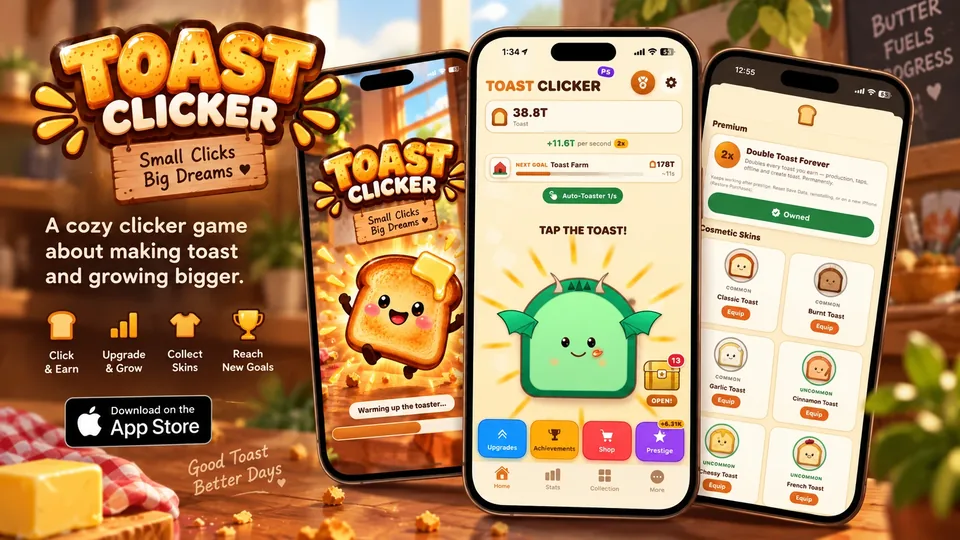
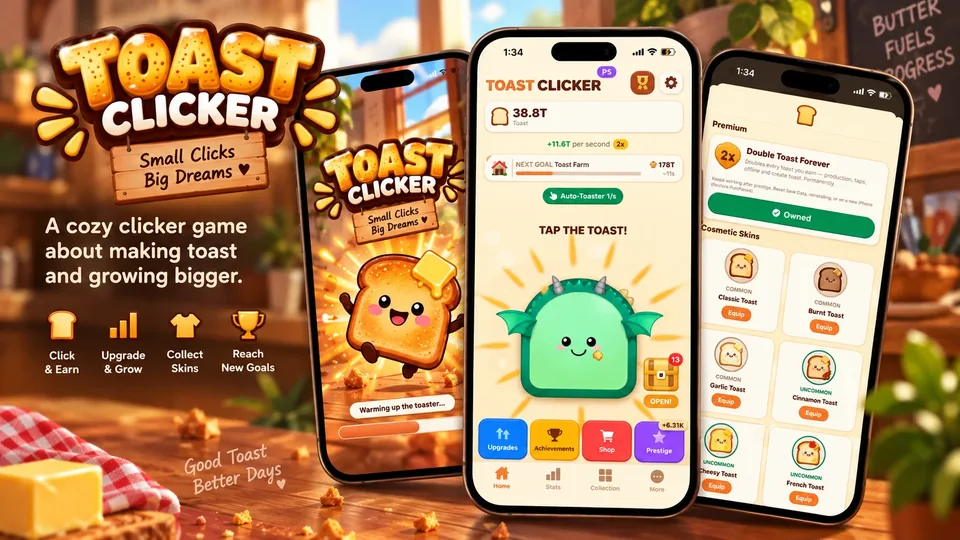
Use showcase artwork without the App Store badge

diff --git a/index.html b/index.html
@@ -83,8 +83,8 @@
         </div>
         <article class="game-card game-card--showcase">
           <figure class="game-shot">
-            <img style="width:100%;height:auto" src="/assets/img/toast-clicker.webp"
-                 srcset="/assets/img/toast-clicker-960.webp 960w, /assets/img/toast-clicker.webp 1672w"
+            <img style="width:100%;height:auto" src="/assets/img/toast-clicker.webp?v=2"
+                 srcset="/assets/img/toast-clicker-960.webp?v=2 960w, /assets/img/toast-clicker.webp?v=2 1672w"
                  sizes="(max-width: 1080px) 100vw, 1040px"
                  width="1672" height="941"
                  alt="Toast Clicker artwork: the game logo with the tagline Small Clicks, Big Dreams, and three iPhone screens showing the loading screen, the main Tap the Toast screen, and the shop with toast skins.">
